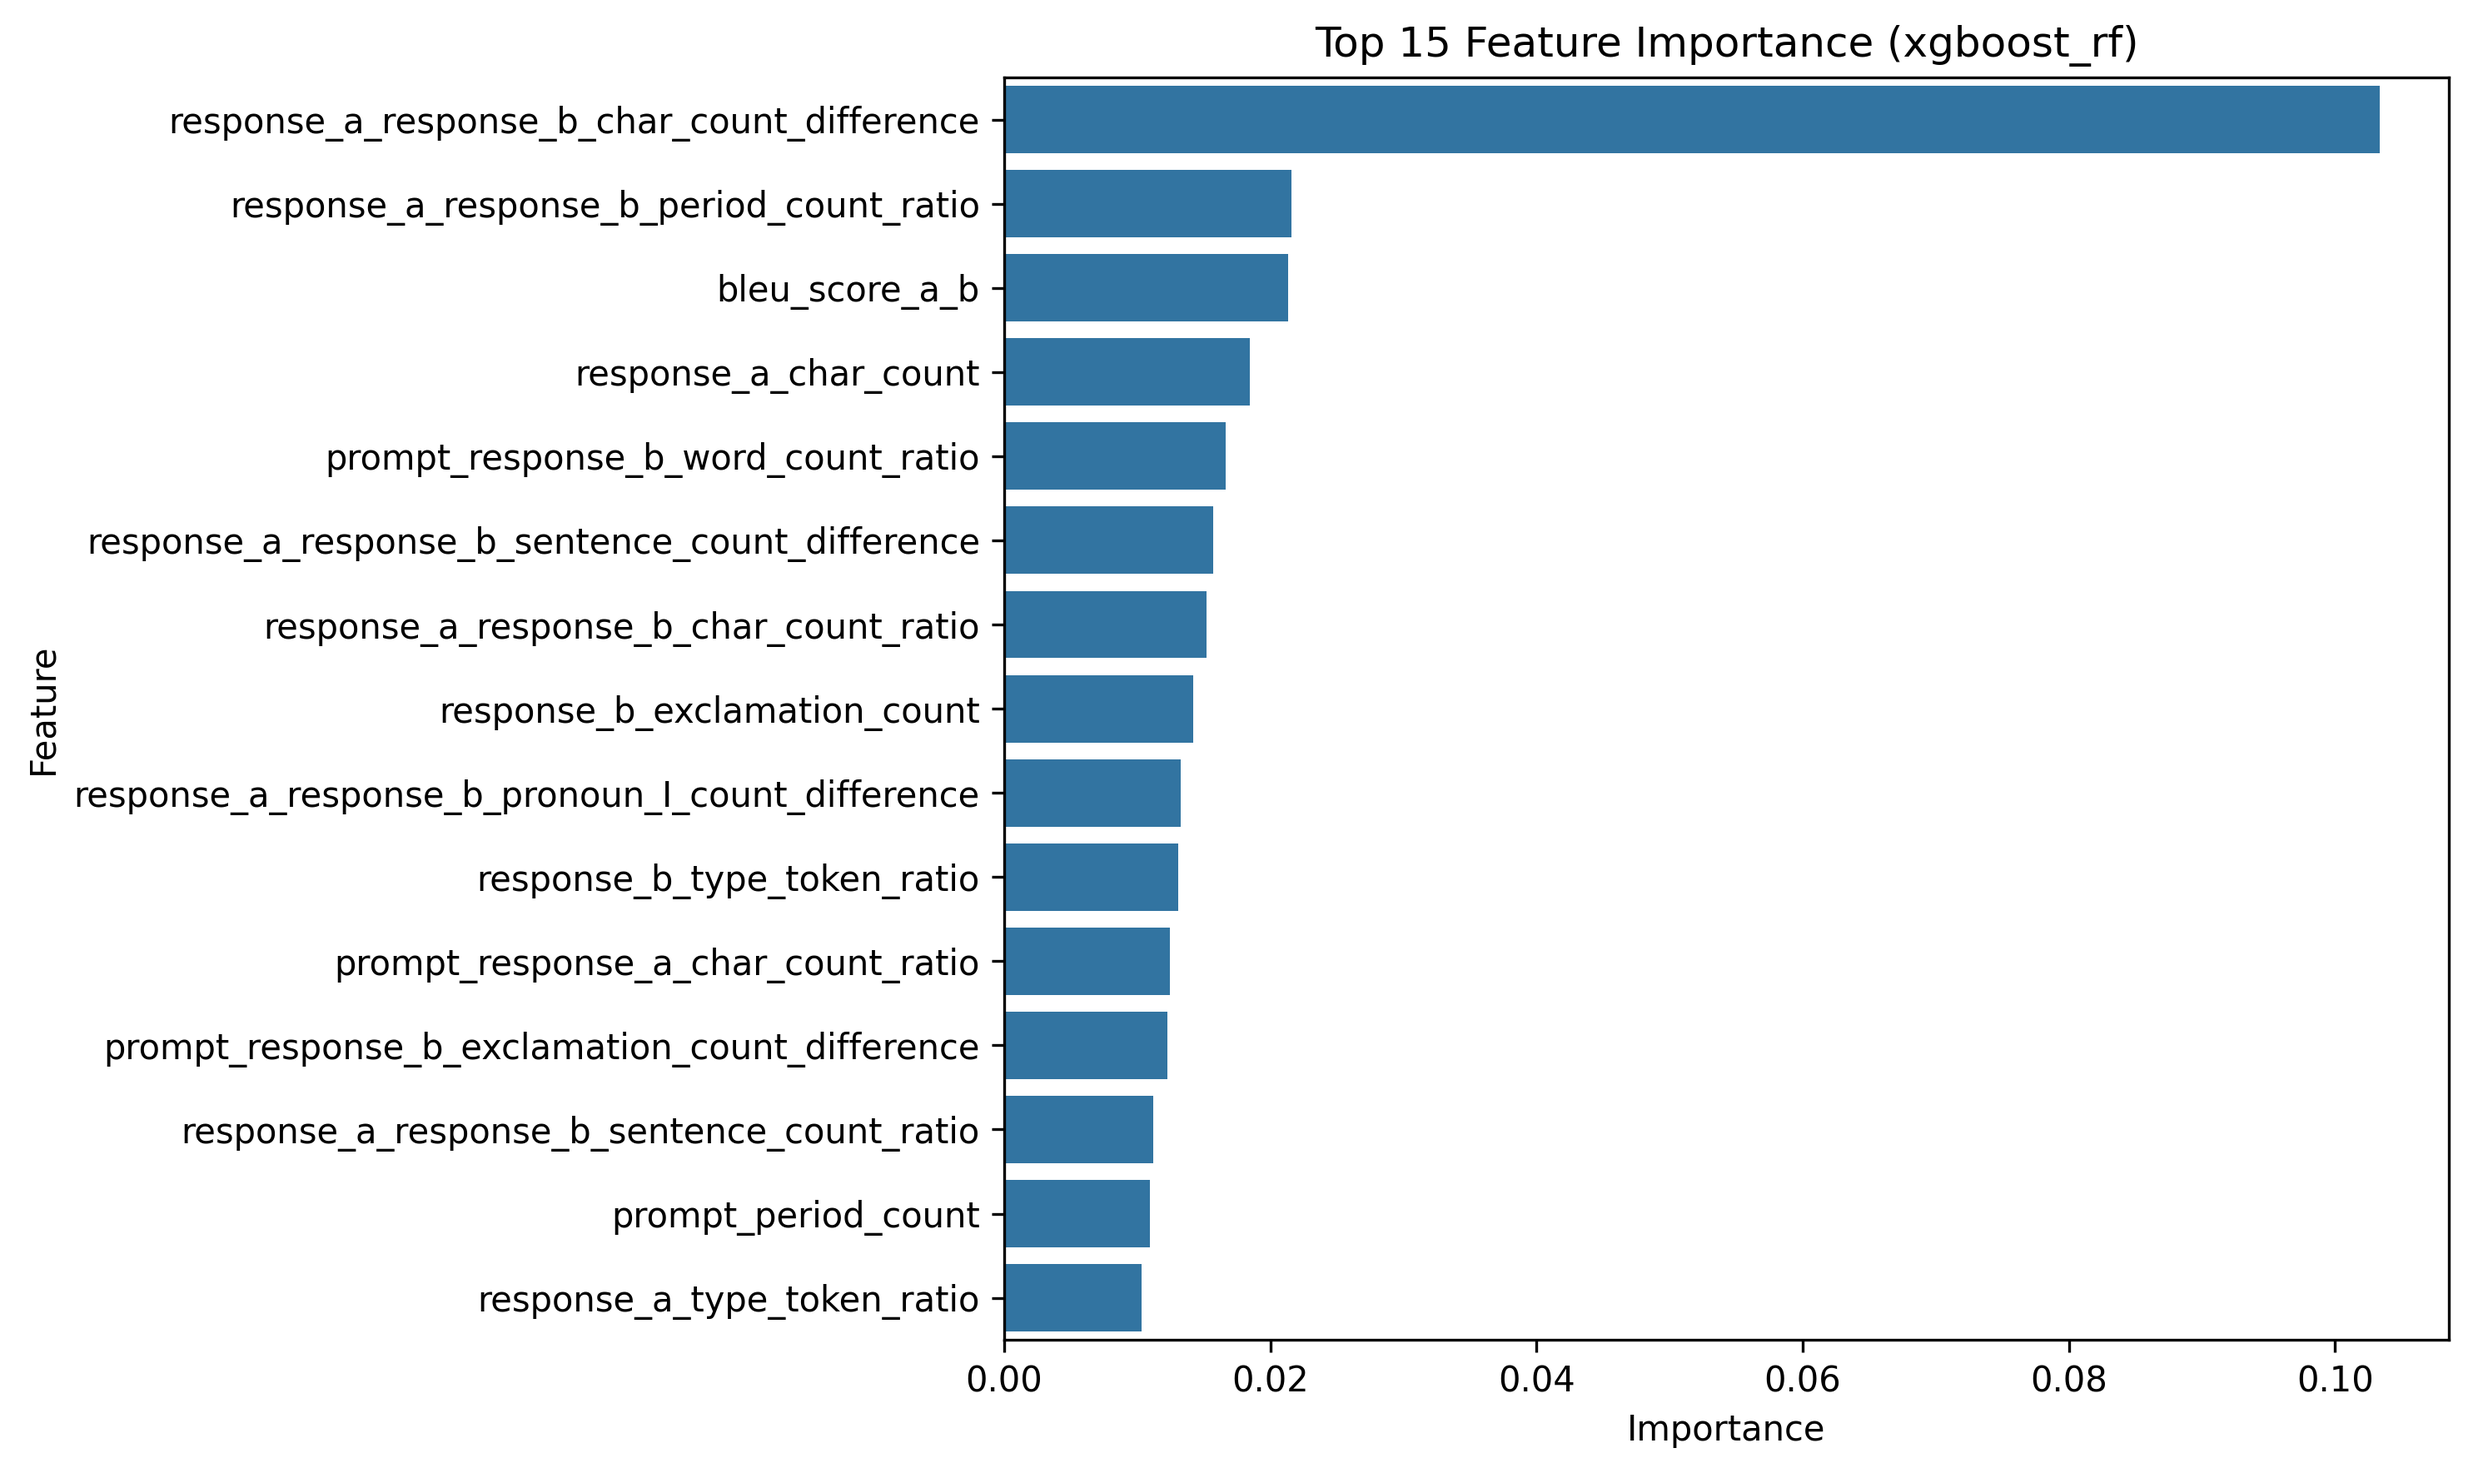
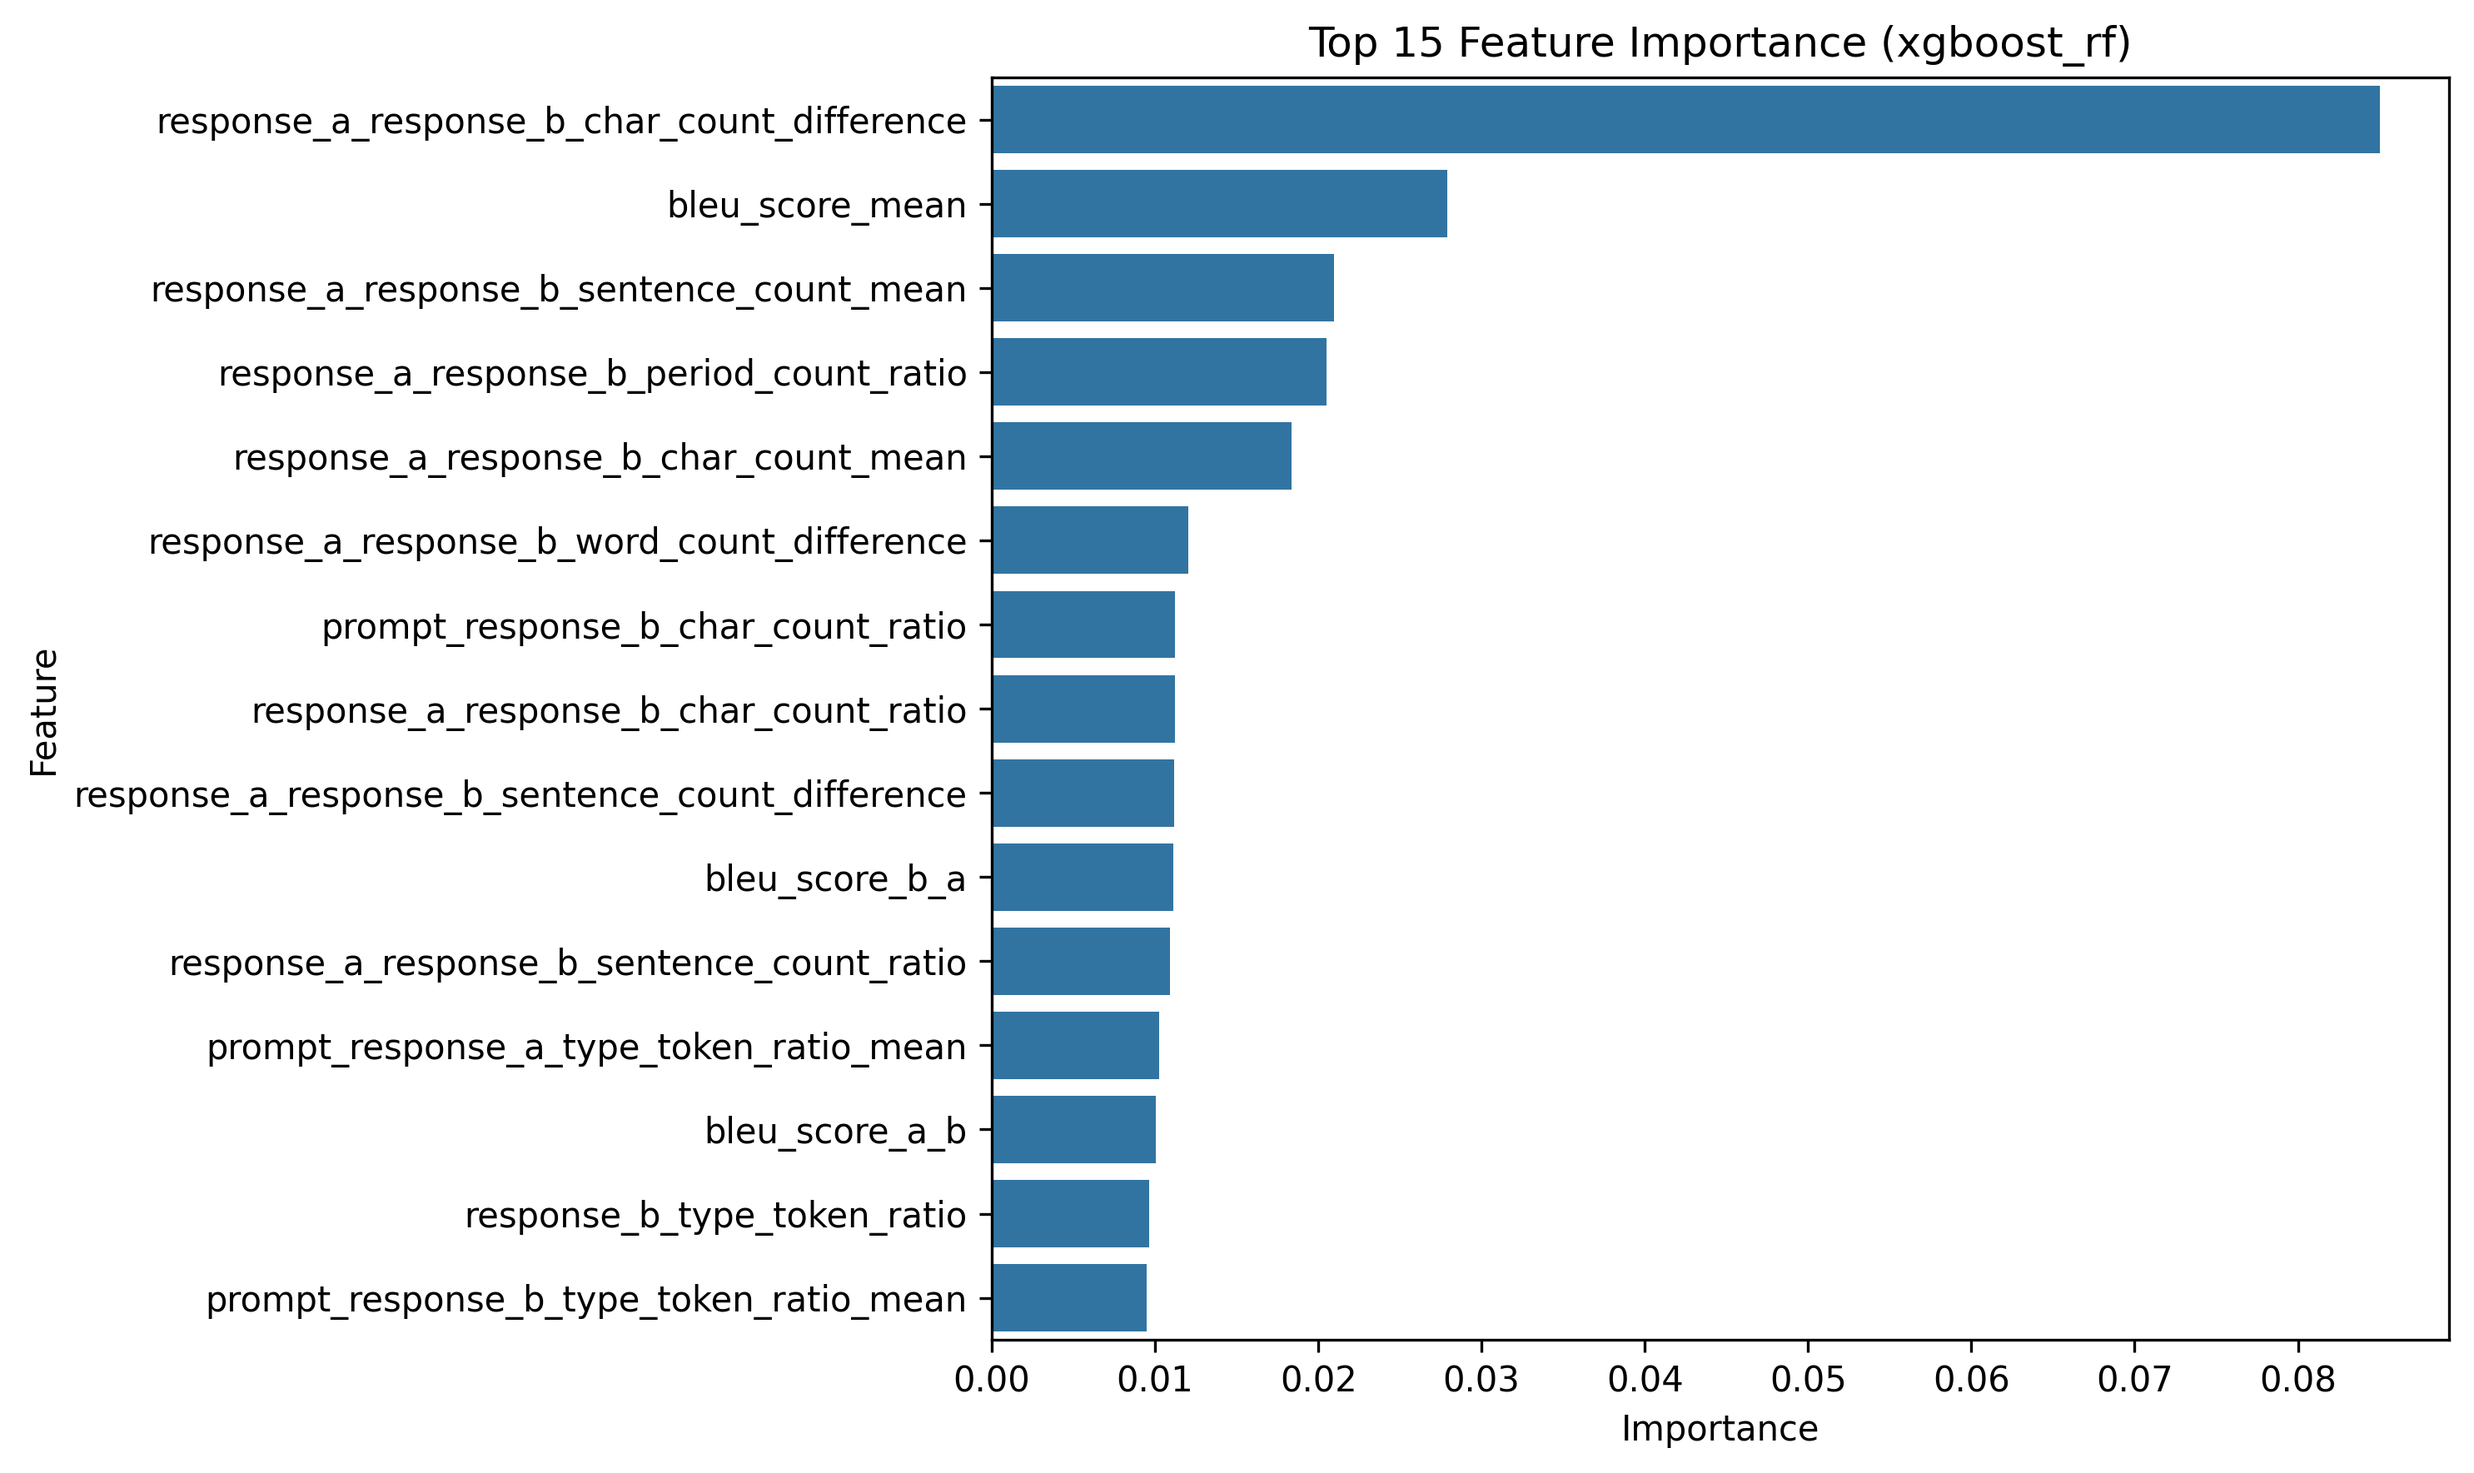
added mean features

diff --git a/main.py b/main.py
@@ -5,8 +5,7 @@ import numpy as np
 import pandas as pd
 import seaborn as sns
 import nltk
-from nltk.translate.bleu_score import sentence_bleu
-from nltk.translate.bleu_score import SmoothingFunction
+from nltk.translate.bleu_score import sentence_bleu, SmoothingFunction
 # from textstat import textstat  # May remove later since hard to implement in Kaggle
 from time import time
 from sklearn.linear_model import LogisticRegression
@@ -16,9 +15,9 @@ from sklearn.preprocessing import StandardScaler
 from xgboost import XGBClassifier
 
 # TODO:
-# Add means in addition to ratios and differences
-# Add bleu scores b_a and mean
+# Remove basic features now that means have been implemented
 # Update notebook for Kaggle and test that
+# Add ReadME for GitHub
 
 def load_data(zip_file_path):
     try: # for local environment
@@ -146,23 +145,27 @@ def calculate_features(df):
 def calculate_bleu_score(df):
     print("Calculating BLEU score between Model A and Model B responses...")
 
-    # Tokenize responses for BLEU score calculation using list comprehensions
     response_a_tokenized = [nltk.word_tokenize(text) for text in df['response_a'].fillna('')]
     response_b_tokenized = [nltk.word_tokenize(text) for text in df['response_b'].fillna('')]
 
     smoothing_function = SmoothingFunction().method1
 
-    # Calculate BLEU score for each row using list comprehension
     df['bleu_score_a_b'] = [
         sentence_bleu([response_b_tokenized[i]], response_a_tokenized[i], smoothing_function=smoothing_function)
         for i in range(len(response_a_tokenized))
     ]
+    df['bleu_score_b_a'] = [
+        sentence_bleu([response_a_tokenized[i]], response_b_tokenized[i], smoothing_function=smoothing_function)
+        for i in range(len(response_a_tokenized))
+    ]
+    df['bleu_score_mean'] = (df['bleu_score_a_b'] + df['bleu_score_b_a']) / 2
+
     print("BLEU score calculation complete.")
     return df
 
 
-def calculate_differences_and_ratios(df):
-    print("Calculating differences and ratios between inputs...")
+def calculate_differences_ratios_means(df):
+    print("Calculating differences, ratios, and means between inputs...")
 
     pairs = [('prompt', 'response_a'), ('prompt', 'response_b'), ('response_a', 'response_b')]
 
@@ -171,27 +174,29 @@ def calculate_differences_and_ratios(df):
                       'colon_count', 'pronoun_I_count', 'pronoun_you_count', 'pronoun_we_count', 'type_token_ratio',
                       'flesch_reading_ease', 'flesch_kincaid_grade']
 
-    diff_ratio_dict = {}
+    diff_ratio_mean_dict = {}
 
     for feature in basic_features:
         for col1, col2 in pairs:
             diff = df[f'{col1}_{feature}'] - df[f'{col2}_{feature}']
             ratio = df[f'{col1}_{feature}'] / df[f'{col2}_{feature}'].replace(0, np.nan)
+            mean = (df[f'{col1}_{feature}'] + df[f'{col2}_{feature}']) / 2
 
-            diff_ratio_dict[f'{col1}_{col2}_{feature}_difference'] = diff
-            diff_ratio_dict[f'{col1}_{col2}_{feature}_ratio'] = ratio
+            diff_ratio_mean_dict[f'{col1}_{col2}_{feature}_difference'] = diff
+            diff_ratio_mean_dict[f'{col1}_{col2}_{feature}_ratio'] = ratio
+            diff_ratio_mean_dict[f'{col1}_{col2}_{feature}_mean'] = mean
 
-    diff_ratio_df = pd.DataFrame(diff_ratio_dict)
-    diff_ratio_df.index = df.index
+    diff_ratio_mean_df = pd.DataFrame(diff_ratio_mean_dict)
+    diff_ratio_mean_df.index = df.index
 
-    df = pd.concat([df.reset_index(drop=True), diff_ratio_df.reset_index(drop=True)], axis=1)
-    print("Finished calculating differences and ratios.")
+    df = pd.concat([df.reset_index(drop=True), diff_ratio_mean_df.reset_index(drop=True)], axis=1)
+    print("Finished calculating differences, ratios, and means.")
     return df
 
 
 def add_basic_features(df):
     df = calculate_features(df)
-    df = calculate_differences_and_ratios(df)
+    df = calculate_differences_ratios_means(df)
     df = calculate_bleu_score(df)
     return df
 
@@ -204,7 +209,7 @@ def prepare_data(train_df):
         '_exclamation_count', '_question_count', '_comma_count', '_period_count',
         '_semicolon_count', '_colon_count', '_pronoun_I_count', '_pronoun_you_count',
         '_pronoun_we_count', '_type_token_ratio', '_flesch_reading_ease', '_flesch_kincaid_grade',
-        '_difference', '_ratio', 'bleu_score'
+        '_difference', '_ratio', '_mean', 'bleu_score'
     ])]
 
     train_df['target'] = train_df.apply(
@@ -311,7 +316,7 @@ def make_predictions(model, test_df, scaler):
         '_exclamation_count', '_question_count', '_comma_count', '_period_count',
         '_semicolon_count', '_colon_count', '_pronoun_I_count', '_pronoun_you_count',
         '_pronoun_we_count', '_type_token_ratio', '_flesch_reading_ease', '_flesch_kincaid_grade',
-        '_difference', '_ratio', 'bleu_score'
+        '_difference', '_ratio', '_mean', 'bleu_score'
     ])]
     X_test = test_df[feature_cols].fillna(0)
     X_test_scaled = scaler.transform(X_test)
@@ -348,7 +353,7 @@ def main(models_to_train):
         '_exclamation_count', '_question_count', '_comma_count', '_period_count',
         '_semicolon_count', '_colon_count', '_pronoun_I_count', '_pronoun_you_count',
         '_pronoun_we_count', '_type_token_ratio', '_flesch_reading_ease', '_flesch_kincaid_grade',
-        '_difference', '_ratio', 'bleu_score'
+        '_difference', '_ratio', '_mean', 'bleu_score'
     ])]
 
     # Prepare the training and validation sets from the train DataFrame
